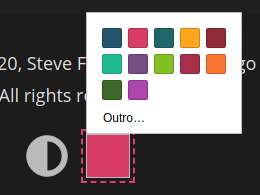
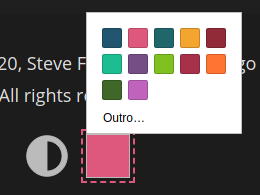
Add default accent colors and update use of Scratch
* Add default accent colors, because the user shouldn't be obliged to
set these params to see the theme working as intended

* Update use of Scratch. Some scopes were unnecessary and there were
also some repetitions

* Minor change to the JS. Add KaTeX-related JS to the KaTeX partial

* Update color-picker.png to reflect the accent color changes

* Remove some outdated comments

Changed region(s): [[0.3077, 0.6462, 0.5231, 0.9538], [0.4923, 0.4, 0.5846, 0.5231], [0.4923, 0.1231, 0.5846, 0.2462]]

diff --git a/layouts/shortcodes/social.html b/layouts/shortcodes/social.html
@@ -1,9 +1,14 @@
-{{ $svgBundle := resources.Get "bundle.svg" | resources.ExecuteAsTemplate "img/bundle.svg" . | minify | resources.Fingerprint "md5" }}
-{{ $icons := $svgBundle.RelPermalink }}
+{{ $icons := (.Page.Scratch.Get "svgBundle").RelPermalink }}
+
+<!-- Reduce repetition... -->
+{{ $centralizedOnPage   := .Page.Params.Social.Centralized }}
+{{ $centralizedOnSite   := .Site.Params.Social.Centralized }}
+{{ $decentralizedOnPage := .Page.Params.Social.Decentralized }}
+{{ $decentralizedOnSite := .Site.Params.Social.Decentralized }}
 
 <section class="social">
 
-  {{ with or .Page.Params.Social.Centralized.facebook .Site.Params.Social.Centralized.facebook }}
+  {{ with or $centralizedOnPage.facebook $centralizedOnSite.facebook }}
   
     {{ $url   := (index . 0) }}
     {{ $label := "Facebook" }}
@@ -22,7 +27,7 @@
     
   {{ end }}
   
-  {{ with or .Page.Params.Social.Centralized.github .Site.Params.Social.Centralized.github }}
+  {{ with or $centralizedOnPage.github $centralizedOnSite.github }}
   
     {{ $url   := (index . 0) }}
     {{ $label := "GitHub" }}
@@ -41,7 +46,7 @@
     
   {{ end }}
 
-  {{ with or .Page.Params.Social.Centralized.gitlab .Site.Params.Social.Centralized.gitlab }}
+  {{ with or $centralizedOnPage.gitlab $centralizedOnSite.gitlab }}
   
     {{ $url   := (index . 0) }}
     {{ $label := "GitLab" }}
@@ -60,7 +65,7 @@
     
   {{ end }}
   
-  {{ with or .Page.Params.Social.Centralized.instagram .Site.Params.Social.Centralized.instagram }}
+  {{ with or $centralizedOnPage.instagram $centralizedOnSite.instagram }}
   
     {{ $url   := (index . 0) }}
     {{ $label := "Instagram" }}
@@ -79,7 +84,7 @@
     
   {{ end }}
   
-  {{ with or .Page.Params.Social.Centralized.keybase .Site.Params.Social.Centralized.keybase }}
+  {{ with or $centralizedOnPage.keybase $centralizedOnSite.keybase }}
   
     {{ $url   := (index . 0) }}
     {{ $label := "Keybase" }}
@@ -98,7 +103,7 @@
     
   {{ end }}
 
-  {{ with or .Page.Params.Social.Centralized.linkedin .Site.Params.Social.Centralized.linkedin }}
+  {{ with or $centralizedOnPage.linkedin $centralizedOnSite.linkedin }}
   
     {{ $url   := (index . 0) }}
     {{ $label := "LinkedIn" }}
@@ -119,15 +124,9 @@
   
 
 
+  {{ if or $decentralizedOnPage.mastodon $decentralizedOnSite.mastodon }}
   
-
-
-  
-  
-  
-  {{ if or .Page.Params.Social.Decentralized.mastodon .Site.Params.Social.Decentralized.mastodon }}
-  
-    {{ range or .Page.Params.Social.Decentralized.mastodon .Site.Params.Social.Decentralized.mastodon }}
+    {{ range or $decentralizedOnPage.mastodon $decentralizedOnSite.mastodon }}
 
       <a rel="me nofollow" href="{{ index . 0 }}" title="{{ index . 1 }} (Mastodon)">
         <svg xmlns="http://www.w3.org/2000/svg" aria-hidden="true">
@@ -141,9 +140,9 @@
     
   {{ end }}
   
-  {{ if or .Page.Params.Social.Decentralized.matrix .Site.Params.Social.Decentralized.matrix }}
+  {{ if or $decentralizedOnPage.matrix $decentralizedOnSite.matrix }}
   
-    {{ range or .Page.Params.Social.Decentralized.matrix .Site.Params.Social.Decentralized.matrix }}
+    {{ range or $decentralizedOnPage.matrix $decentralizedOnSite.matrix }}
       <a rel="me nofollow" href="{{ index . 0 }}" title="{{ index . 1 }} (Matrix)">
         <svg xmlns="http://www.w3.org/2000/svg" aria-hidden="true">
           <use xlink:href="{{ $icons }}#matrix"/>
@@ -156,7 +155,7 @@
   {{ end }}
   
   
-  {{ with or .Page.Params.Social.Centralized.medium .Site.Params.Social.Centralized.medium }}
+  {{ with or $centralizedOnPage.medium $centralizedOnSite.medium }}
   
     {{ $url   := (index . 0) }}
     {{ $label := "Medium" }}
@@ -176,7 +175,7 @@
   {{ end }}
   
   
-  {{ with or .Page.Params.Social.Centralized.stackOverflow .Site.Params.Social.Centralized.stackOverflow }}
+  {{ with or $centralizedOnPage.stackOverflow $centralizedOnSite.stackOverflow }}
   
     {{ $url   := (index . 0) }}
     {{ $label := "Stack Overflow" }}
@@ -196,7 +195,7 @@
   {{ end }}
   
   
-  {{ with or .Page.Params.Social.Centralized.reddit .Site.Params.Social.Centralized.reddit }}
+  {{ with or $centralizedOnPage.reddit $centralizedOnSite.reddit }}
   
     {{ $url   := (index . 0) }}
     {{ $label := "Reddit" }}
@@ -216,7 +215,7 @@
   {{ end }}
   
 
-  {{ with or .Page.Params.Social.Centralized.telegram .Site.Params.Social.Centralized.telegram }}
+  {{ with or $centralizedOnPage.telegram $centralizedOnSite.telegram }}
   
     {{ $url   := (index . 0) }}
     {{ $label := "Telegram" }}
@@ -235,7 +234,7 @@
     
   {{ end }}
   
-  {{ with or .Page.Params.Social.Centralized.twitter .Site.Params.Social.Centralized.twitter }}
+  {{ with or $centralizedOnPage.twitter $centralizedOnSite.twitter }}
   
     {{ $url   := (index . 0) }}
     {{ $label := "Twitter" }}

diff --git a/assets/js/prepone.js b/assets/js/prepone.js
@@ -1,5 +1,12 @@
 'use strict';
 
+// Get default accent colors
+{{ $darkAccent  := .Scratch.Get "darkAccent" }}
+{{ $lightAccent := .Scratch.Get "lightAccent" }}
+
+// Get CSS transition
+{{ $changeTransition := .Scratch.Get "changeTransition" }}
+
 /******************************
 / Mode switcher + Custom accent color
 / Based on: https://gist.github.com/regpaq/04c67e8aceecbf0fd819945835412d1f
@@ -47,7 +54,7 @@ function getAccent() {
       console.log("The user never used the palette while in the 'dark' mode.");
       console.log("As the mode is 'dark', loading the 'default accent color' for the dark mode.");
       
-      var currentAccent = "{{ .Site.Params.style.darkAccent }}"
+      var currentAccent = "{{ $darkAccent }}"
     } else {
     
       var currentAccent = localStorage.getItem('darkAccent')
@@ -62,7 +69,7 @@ function getAccent() {
       console.log("The user never used the palette while in the 'light' mode.");
       console.log("As the mode is 'light', loading the 'default accent color' for the light mode.");
 
-      var currentAccent = "{{ .Site.Params.style.lightAccent }}"
+      var currentAccent = "{{ $lightAccent }}"
     } else {
       var currentAccent = localStorage.getItem('lightAccent')
       
@@ -94,17 +101,6 @@ function updateAccent() {
 };
 
 
-// Currently being used for a HACK
-// See the KaTeX partial
-function getAll(selector) {
-  return Array.prototype.slice.call(document.querySelectorAll(selector), 0)
-};
-
-
-// Match the property found in the CSS
-// Used in the function below
-{{ $changeTransition := .Site.Params.Style.changeTransition | default ".5s ease" }}
-  
 document.addEventListener('DOMContentLoaded', function () {
 
   // Update the color picker with the active accent color 

diff --git a/layouts/partials/head.html b/layouts/partials/head.html
@@ -299,6 +299,10 @@
 {{ end }}
 
 
+<!-- Set as scratch to be used in CSS and JS -->
+{{ $changeTransition := .Site.Params.Style.changeTransition | default ".5s ease" }}
+{{ .Scratch.Set "changeTransition" $changeTransition }}
+
 
 <!-- Main CSS -->
 {{ $main := resources.Get "scss/main.scss" | resources.ExecuteAsTemplate "css/main.scss" . | toCSS | minify | resources.Fingerprint "sha512" }}
@@ -308,14 +312,21 @@
 <!-- If JS is disabled -->
 <noscript>
 
+  {{ $darkAccent   := .Site.Params.Style.darkAccent   | default "#dd587c" }}
+  {{ $lightAccent  := .Site.Params.Style.lightAccent  | default "#225670" }}
+  
+  <!-- Set default accent colors -->
+  {{ .Scratch.Set "darkAccent"  $darkAccent }}
+  {{ .Scratch.Set "lightAccent" $lightAccent }}
+
   <!-- Not properly tested? -->
-  <meta name="theme-color" content="{{ .Site.Params.Style.lightAccent }}" {{ if .Site.Params.Style.isDark }}media="(prefers-color-scheme: light)"{{ end }}>
-  <meta name="theme-color" content="{{ .Site.Params.Style.darkAccent }}" {{ if not .Site.Params.Style.isDark }}media="(prefers-color-scheme: dark)"{{ end }}>
+  <meta name="theme-color" content="{{ $darkAccent }}" {{ if not .Site.Params.Style.isDark }}media="(prefers-color-scheme: dark)"{{ end }}>
+  <meta name="theme-color" content="{{ $lightAccent }}" {{ if .Site.Params.Style.isDark }}media="(prefers-color-scheme: light)"{{ end }}>
 
   <style>
   
     html {
-      --accent: {{ if .Site.Params.Style.isDark }}{{ .Site.Params.Style.darkAccent }}{{ else }}{{ .Site.Params.Style.lightAccent }}{{ end }};
+      --accent: {{ if .Site.Params.Style.isDark }}{{ $darkAccent }}{{ else }}{{ $lightAccent }}{{ end }};
     }
   
     .js,

diff --git a/layouts/partials/footer.html b/layouts/partials/footer.html
@@ -1,5 +1,9 @@
-<!-- Set SVG bundle -->
+<!-- Get SVG bundle -->
 {{ $icons := (.Scratch.Get "svgBundle").RelPermalink }}
+
+<!-- Get default accent colors -->
+{{ $darkAccent  := .Scratch.Get "darkAccent" }}
+{{ $lightAccent := .Scratch.Get "lightAccent" }}
 
 <!-- Custom footer or default copyright -->
 {{ if or (templates.Exists "partials/custom/footer") (templates.Exists "partials/custom/footer.html") }}
@@ -27,9 +31,9 @@
 {{ end }}
 
 
-<!-- Fancy stuff -->
+<!-- Footer button and color picker -->
 <aside class="js">
-  <button title="{{ T "change_mode" }}"><svg xmlns="http://www.w3.org/2000/svg" aria-hidden="true"><use xlink:href="{{ $icons }}#adjust"/></svg></button><input type="color" list="presets" value="{{ if .Site.Params.Style.isDark }}{{ .Site.Params.style.darkAccent }}{{ else }}{{ .Site.Params.style.lightAccent }}{{ end }}" title="{{ T "change_accent" }}"><datalist id="presets"><option value="{{ .Site.Params.style.lightAccent }}"><option value="{{ .Site.Params.style.darkAccent }}"><!-- Extra colors -->{{- range .Site.Params.style.presets -}}<option value="{{ . }}">{{ end }}</datalist>
+  <button title="{{ T "change_mode" }}"><svg xmlns="http://www.w3.org/2000/svg" aria-hidden="true"><use xlink:href="{{ $icons }}#adjust"/></svg></button><input type="color" list="presets" value="{{ if .Site.Params.Style.isDark }}{{ $darkAccent }}{{ else }}{{ $lightAccent }}{{ end }}" title="{{ T "change_accent" }}"><datalist id="presets"><option value="{{ $lightAccent }}"><option value="{{ $darkAccent }}"><!-- Extra colors -->{{- range .Site.Params.style.presets -}}<option value="{{ . }}">{{ end }}</datalist>
 </aside>
 
 <!-- noscript notice -->

diff --git a/assets/scss/main.scss b/assets/scss/main.scss
@@ -1,13 +1,3 @@
-/*
-  TODO
-  * Responsiveness polish (max-height, max-width, portrait and landscape, etc)
-  * Clean code in general
-  * Improve animation consistency (why am I using different delays...?)
-  * Improve dimension consistency (rem, em and px is being used almost randomly)
-  * Not everything should be nested, you moron
-  * Why there are so many word-break rules
-*/
-
 @charset 'utf-8';
 
 // Import base (variables and mixins), typography and general colors
@@ -16,8 +6,8 @@
         'colors/variables';
 
 
-// Transition for color changes
-$change-transition: {{ .Site.Params.Style.changeTransition | default ".5s ease" }}
+// Get transition for color changes
+$change-transition: {{ .Scratch.Get "changeTransition" }};
 
 
 
@@ -1347,7 +1337,13 @@ p.error {
 
 
 // Rich Content
-@import 'rich-content';
+{{ if (fileExists "static/css/rich-content.css") }}
+  @import '/css/rich-content.css';
+{{ else if (fileExists "assets/scss/rich-content.scss") }}
+  @import 'rich-content';
+{{ end }}
+
+
 
 // TODO
 // Custom user stuff

diff --git a/layouts/_default/_markup/render-heading.html b/layouts/_default/_markup/render-heading.html
@@ -7,12 +7,12 @@
   Would like to test a few more things
 -->
 
-{{ $svgBundle := ($.Page.Scratch.Get "svgBundle").RelPermalink }}
+{{ $icons := (.Page.Scratch.Get "svgBundle").RelPermalink }}
 
 {{ $anchoredLinkLevels := slice 2 3 }}
 
 {{ if in $anchoredLinkLevels .Level }}
-  <h{{ .Level }} id="{{ .Anchor | safeURL }}">{{ .Text | safeHTML }} {{ printf "<a class=\"anchor\" href=\"#%s\" title='%s \"%s\".'><svg aria-hidden=\"true\"><use xlink:href=\"%s#hashtag\"/></svg></a>" (.Anchor | safeURL) (T "anchor_for") (.Text | plainify | safeHTML) $svgBundle | safeHTML }}</h{{ .Level }}> 
+  <h{{ .Level }} id="{{ .Anchor | safeURL }}">{{ .Text | safeHTML }} {{ printf "<a class=\"anchor\" href=\"#%s\" title='%s \"%s\".'><svg aria-hidden=\"true\"><use xlink:href=\"%s#hashtag\"/></svg></a>" (.Anchor | safeURL) (T "anchor_for") (.Text | plainify | safeHTML) $icons | safeHTML }}</h{{ .Level }}> 
 {{ else }}
   <h{{ .Level }} id="{{ .Anchor | safeURL }}">{{ .Text | safeHTML }}</h{{ .Level }}> 
 {{ end }}

diff --git a/layouts/_default/single.html b/layouts/_default/single.html
@@ -1,6 +1,6 @@
 {{ define "main" }}
 
-  {{ $svgBundle := ($.Page.Scratch.Get "svgBundle").RelPermalink }}
+  {{ $icons := (.Scratch.Get "svgBundle").RelPermalink }}
 
   <main>
     <article>
@@ -74,7 +74,7 @@
       
       <!-- OR replace the footnote return links with a SVG icon -->
       {{ if .Site.Params.Style.hasIconAsFootnoteReturnLink }}
-        {{ $footnoteReturnLink = ( printf "${1}<svg transform=\"rotate(180) translate(0 -1)\" aria-hidden=\"true\" ><use xlink:href=\"%s#caret-down\"/></svg>${2}" $svgBundle) }}
+        {{ $footnoteReturnLink = ( printf "${1}<svg transform=\"rotate(180) translate(0 -1)\" aria-hidden=\"true\" ><use xlink:href=\"%s#caret-down\"/></svg>${2}" $icons) }}
       {{ end }}
 
       <!--

diff --git a/layouts/_default/baseof.html b/layouts/_default/baseof.html
@@ -4,7 +4,7 @@
 -->
 
 {{- $svgBundle := resources.Get "bundle.svg" | resources.ExecuteAsTemplate "img/bundle.svg" . | minify | resources.Fingerprint "md5" -}}
-{{- $.Page.Scratch.Set "svgBundle" $svgBundle -}}
+{{- .Scratch.Set "svgBundle" $svgBundle -}}
 
 <!DOCTYPE html>
 <html lang="{{ .Site.Language.Lang }}" data-mode="{{ if .Site.Params.Style.isDark }}dark{{ else }}light{{ end }}">

diff --git a/layouts/_default/list.html b/layouts/_default/list.html
@@ -14,12 +14,6 @@
       {{ end }}
     {{ else }}
 
-      <!--
-      range last 9
-      .Format "2006-01-02"
-      | dateFormat "Jan 02"
-      -->
-
       {{ $pages := where site.RegularPages "Type" "in" .Site.Params.mainSections }}
       
       {{ $paginator := .Paginate .Pages }}

diff --git a/layouts/partials/katex.html b/layouts/partials/katex.html
@@ -26,6 +26,11 @@
 -->
 
 <script>
+  'use strict';
+  
+  function getAll(selector) {
+    return Array.prototype.slice.call(document.querySelectorAll(selector), 0)
+  };
 
   function addTabIndex() {
   

diff --git a/assets/js/postpone.js b/assets/js/postpone.js
@@ -19,5 +19,4 @@ PALETTE.onchange = function () {
   };
   
   updateAccent()
-};
-
+}
